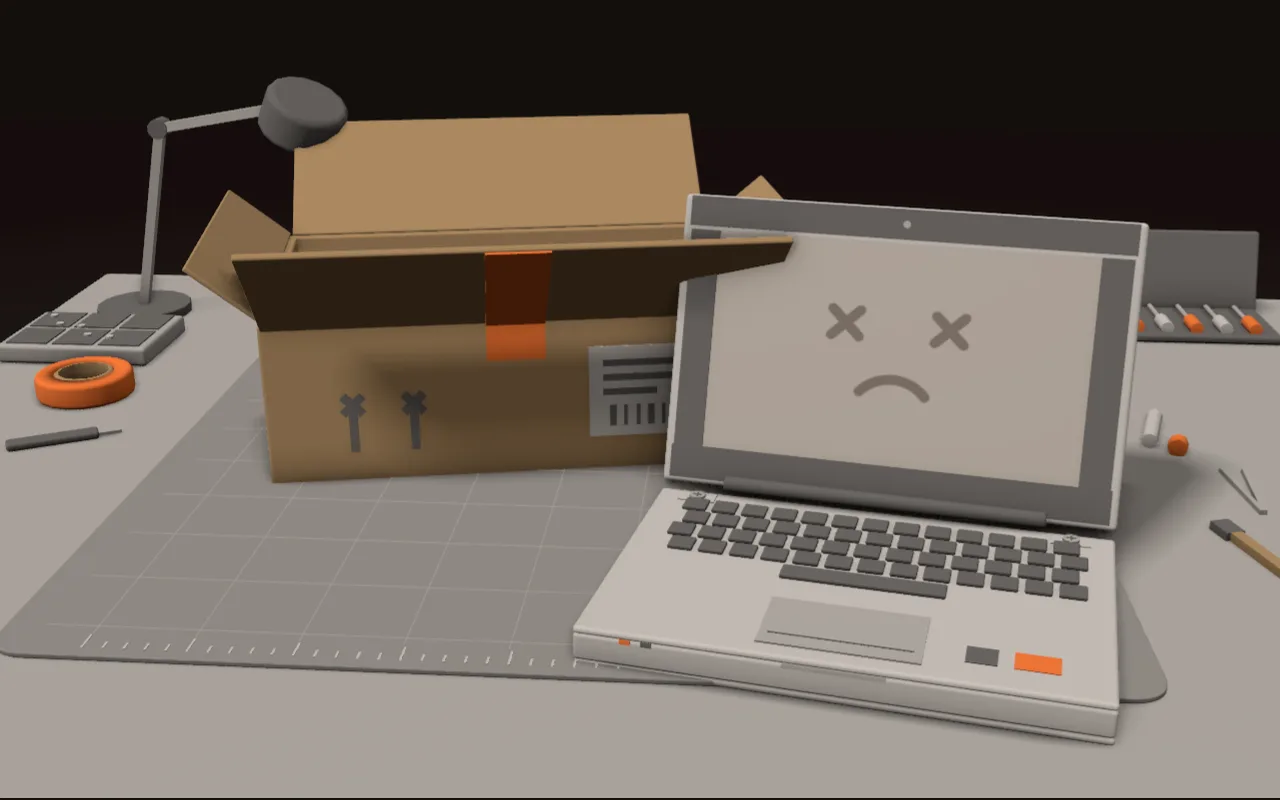
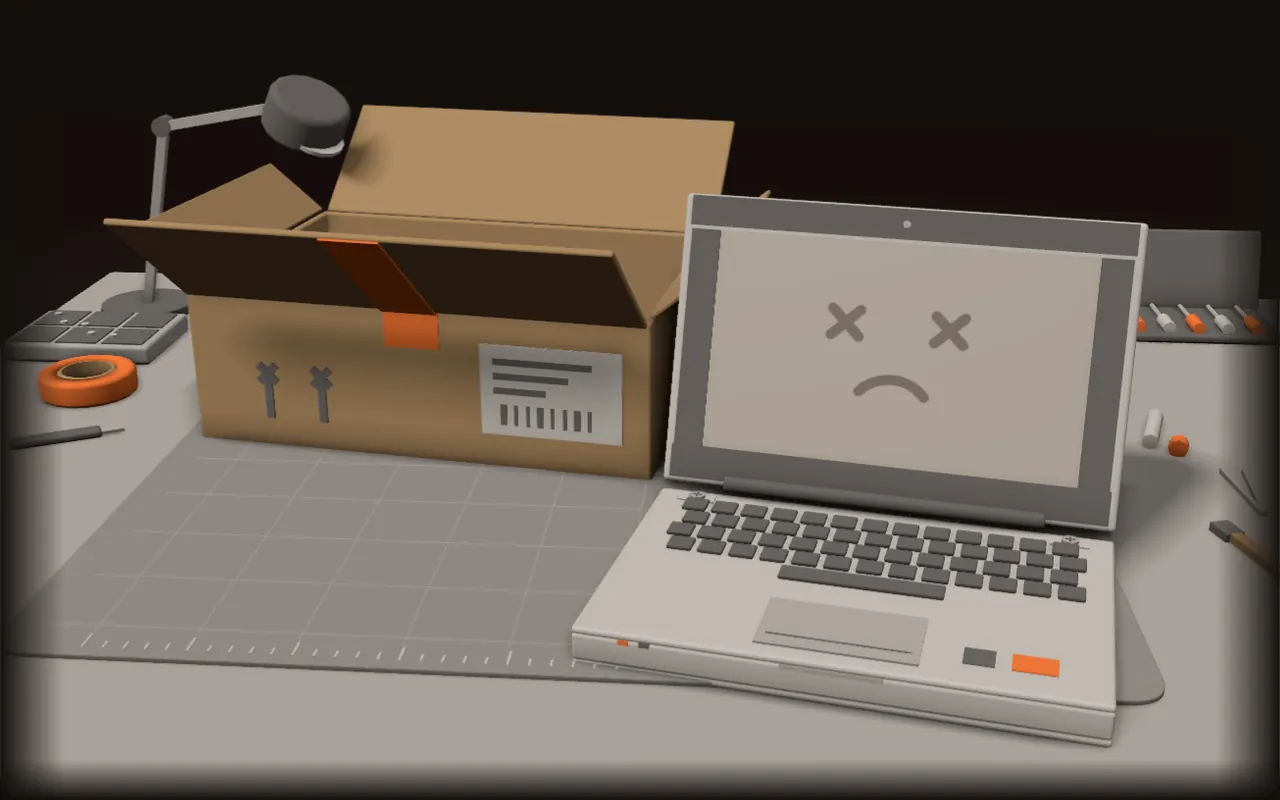
fix(work): a aba da caixa não atravessa mais a tela do notebook
No passo 1 dos notebooks a aba da frente da caixa de papelão cortava a tampa
aberta. A caixa vai um pouco para a esquerda e vira para o notebook, e a aba
termina antes da tela. Pôsteres e etiquetas do passo refeitos.

Changed region(s): [[0.0, 0.0938, 1.0, 1.0], [0.5625, 0.6562, 0.875, 0.75], [0.5, 0.125, 0.625, 0.25]]

diff --git a/src/components/Home/Clay/LaptopScene.tsx b/src/components/Home/Clay/LaptopScene.tsx
@@ -50,8 +50,9 @@ const io = (on: number[], table: Record<string, [number, number]> = {}, arrive: 
 const here = (p: Play, i: number) => (p.to === i ? (p.from === i ? 1 : p.t) : p.from === i ? 1 - ease(slice(p.t, 0, 0.3)) : 0);
 
 // ── Where things are ─────────────────────────────────────────────────────────
-const CARTON_AT: V3 = [-1.15, 0, -1.75];
-const CARTON_YAW = 0.2;
+// Left of the laptop's lid and turned a little towards it: the open front flap ends before the lid starts.
+const CARTON_AT: V3 = [-1.45, 0, -1.9];
+const CARTON_YAW = -0.15;
 const BENCH: V3 = [0, MAT[1], -0.15];
 // The map lies on the desk, in front of what stands at its back.
 const MAP_AT: V3 = [0.1, 0, 0.35];
